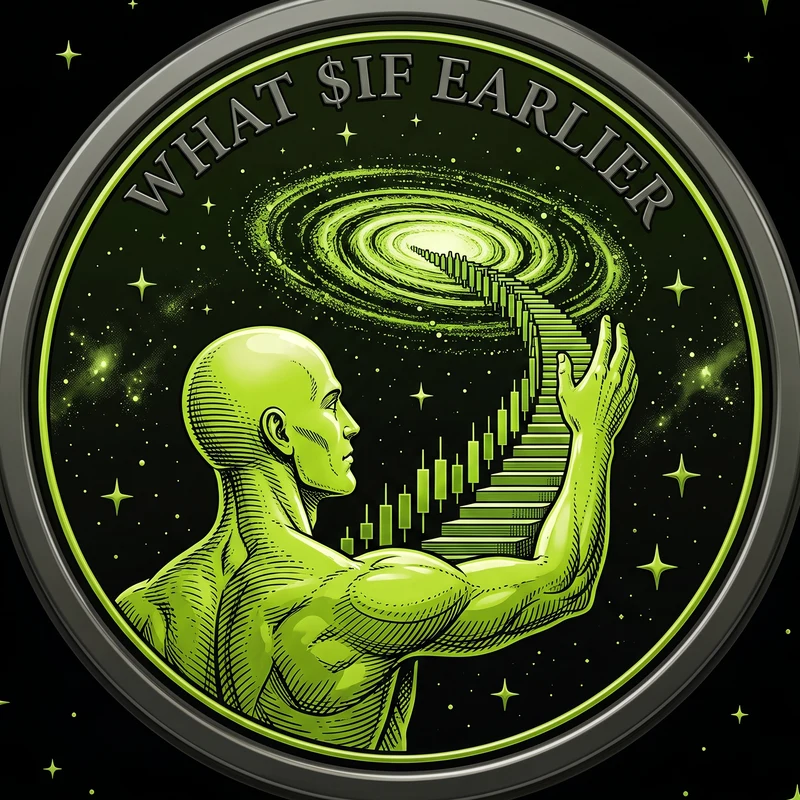
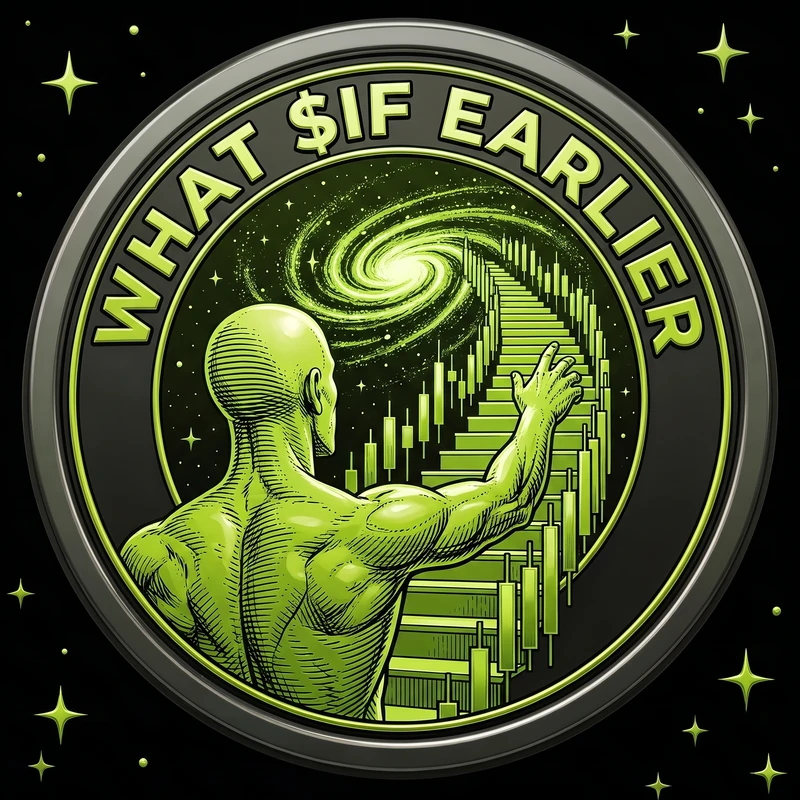
Make the rim lettering readable at the size a card is seen
The first pass engraved the rim text dark-on-gunmetal, which is how a
real coin looks and how a real coin is also unreadable at 208 pixels —
and X halves the card again in a timeline. Two changes, both needed:

  The lettering is redrawn in bright acid-lime with a hard black outline
  and set large enough to fill the rim band, rather than engraved into
  the metal at whatever size it landed.

  The medallion is bigger on every card: 208 to 268 on the Machine, 190
  to 250 on the question generator, 196 to 252 on the wallet lookup.

Checked at timeline width, not just at full size — WHAT  EARLIER,
DODGED IT, STILL ASKING and READ THE CHAIN all hold.

diff --git a/src/lib/card-designs.ts b/src/lib/card-designs.ts
@@ -109,7 +109,7 @@ export function drawMachineCard(
   // The curve first, so the medallion sits on top of its own chart and the
   // line reads as running out from behind it.
   drawSpark(context, data.history, data.entryIndex, cx, cy, radius * 0.95, accent);
-  if (coin) paintMedallion(context, coin, cx, cy, 208, accent);
+  if (coin) paintMedallion(context, coin, cx, cy, 268, accent);
 
   paintEyebrow(context, 'The What $IF Machine');
 
@@ -222,7 +222,7 @@ export function drawAskCard(
   const askX = CARD_WIDTH - 178;
   const askY = CARD_HEIGHT - 168;
   paintPortal(context, askX, askY, 250, { accent: LIME, sweep: 0.5, seed: hash(question) });
-  if (coin) paintMedallion(context, coin, askX, askY, 190, LIME);
+  if (coin) paintMedallion(context, coin, askX, askY, 250, LIME);
 
   paintEyebrow(context, 'Still asking.');
 
@@ -312,7 +312,7 @@ export function drawHoldingsCard(
   const sweep = data.share > 0 ? Math.max(0.04, Math.min(1, Math.sqrt(data.share))) : 0;
   paintPortal(context, cx, cy, radius, { accent: LIME, sweep, seed: hash(data.tokens) });
 
-  if (coin) paintMedallion(context, coin, cx, cy, 196, LIME);
+  if (coin) paintMedallion(context, coin, cx, cy, 252, LIME);
 
   // Under the portal, not inside it: the medallion has the middle now.
   context.save();
